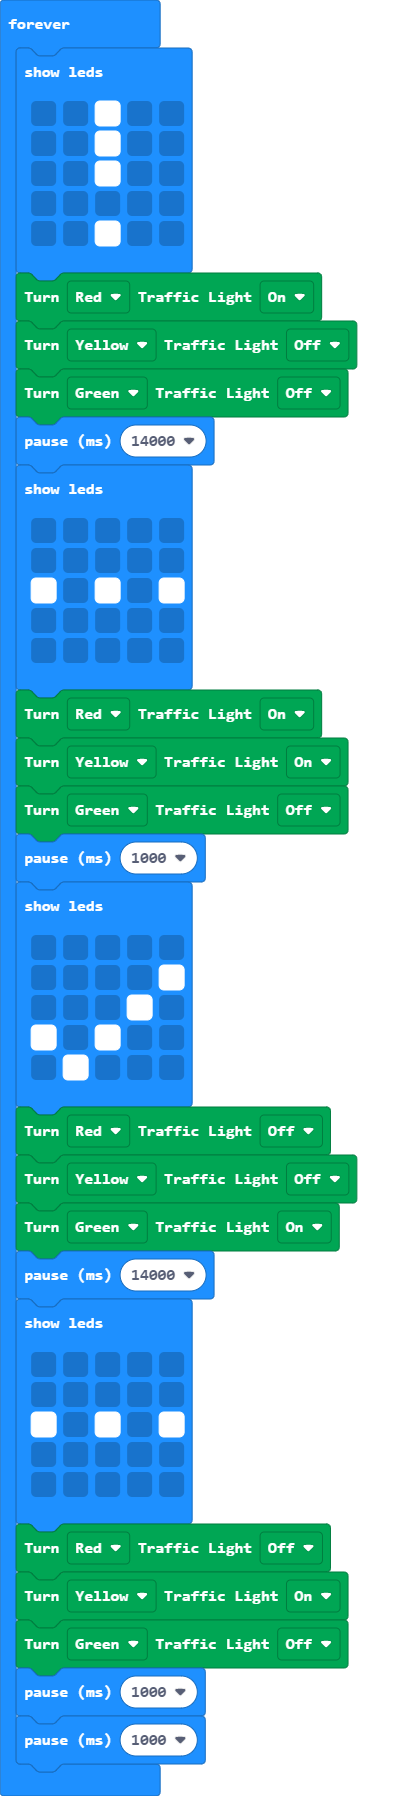
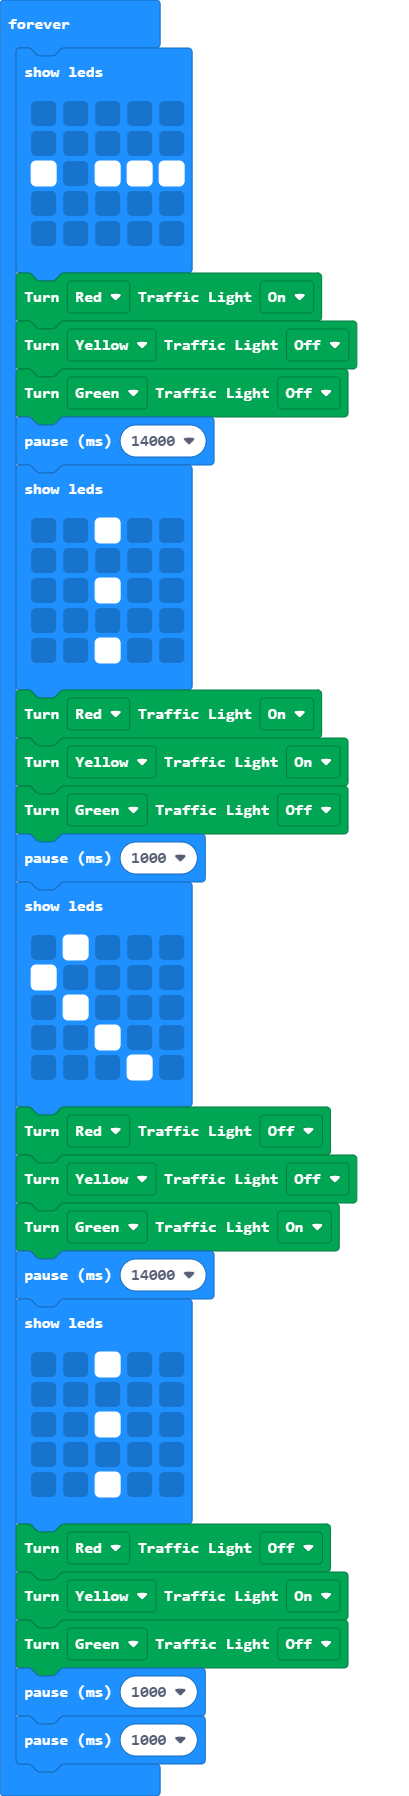
sideways drawing because when they are attached to the stop:bit

diff --git a/main.ts b/main.ts
@@ -1,43 +1,43 @@
 basic.forever(function () {
     basic.showLeds(`
-        . . # . .
-        . . # . .
-        . . # . .
         . . . . .
-        . . # . .
+        . . . . .
+        # . # # #
+        . . . . .
+        . . . . .
         `)
     Kitronik_STOPbit.trafficLightLED(Kitronik_STOPbit.LightColours.Red, Kitronik_STOPbit.DisplayLights.On)
     Kitronik_STOPbit.trafficLightLED(Kitronik_STOPbit.LightColours.Yellow, Kitronik_STOPbit.DisplayLights.Off)
     Kitronik_STOPbit.trafficLightLED(Kitronik_STOPbit.LightColours.Green, Kitronik_STOPbit.DisplayLights.Off)
     basic.pause(14000)
     basic.showLeds(`
+        . . # . .
         . . . . .
+        . . # . .
         . . . . .
-        # . # . #
-        . . . . .
-        . . . . .
+        . . # . .
         `)
     Kitronik_STOPbit.trafficLightLED(Kitronik_STOPbit.LightColours.Red, Kitronik_STOPbit.DisplayLights.On)
     Kitronik_STOPbit.trafficLightLED(Kitronik_STOPbit.LightColours.Yellow, Kitronik_STOPbit.DisplayLights.On)
     Kitronik_STOPbit.trafficLightLED(Kitronik_STOPbit.LightColours.Green, Kitronik_STOPbit.DisplayLights.Off)
     basic.pause(1000)
     basic.showLeds(`
-        . . . . .
-        . . . . #
-        . . . # .
-        # . # . .
         . # . . .
+        # . . . .
+        . # . . .
+        . . # . .
+        . . . # .
         `)
     Kitronik_STOPbit.trafficLightLED(Kitronik_STOPbit.LightColours.Red, Kitronik_STOPbit.DisplayLights.Off)
     Kitronik_STOPbit.trafficLightLED(Kitronik_STOPbit.LightColours.Yellow, Kitronik_STOPbit.DisplayLights.Off)
     Kitronik_STOPbit.trafficLightLED(Kitronik_STOPbit.LightColours.Green, Kitronik_STOPbit.DisplayLights.On)
     basic.pause(14000)
     basic.showLeds(`
+        . . # . .
         . . . . .
+        . . # . .
         . . . . .
-        # . # . #
-        . . . . .
-        . . . . .
+        . . # . .
         `)
     Kitronik_STOPbit.trafficLightLED(Kitronik_STOPbit.LightColours.Red, Kitronik_STOPbit.DisplayLights.Off)
     Kitronik_STOPbit.trafficLightLED(Kitronik_STOPbit.LightColours.Yellow, Kitronik_STOPbit.DisplayLights.On)
